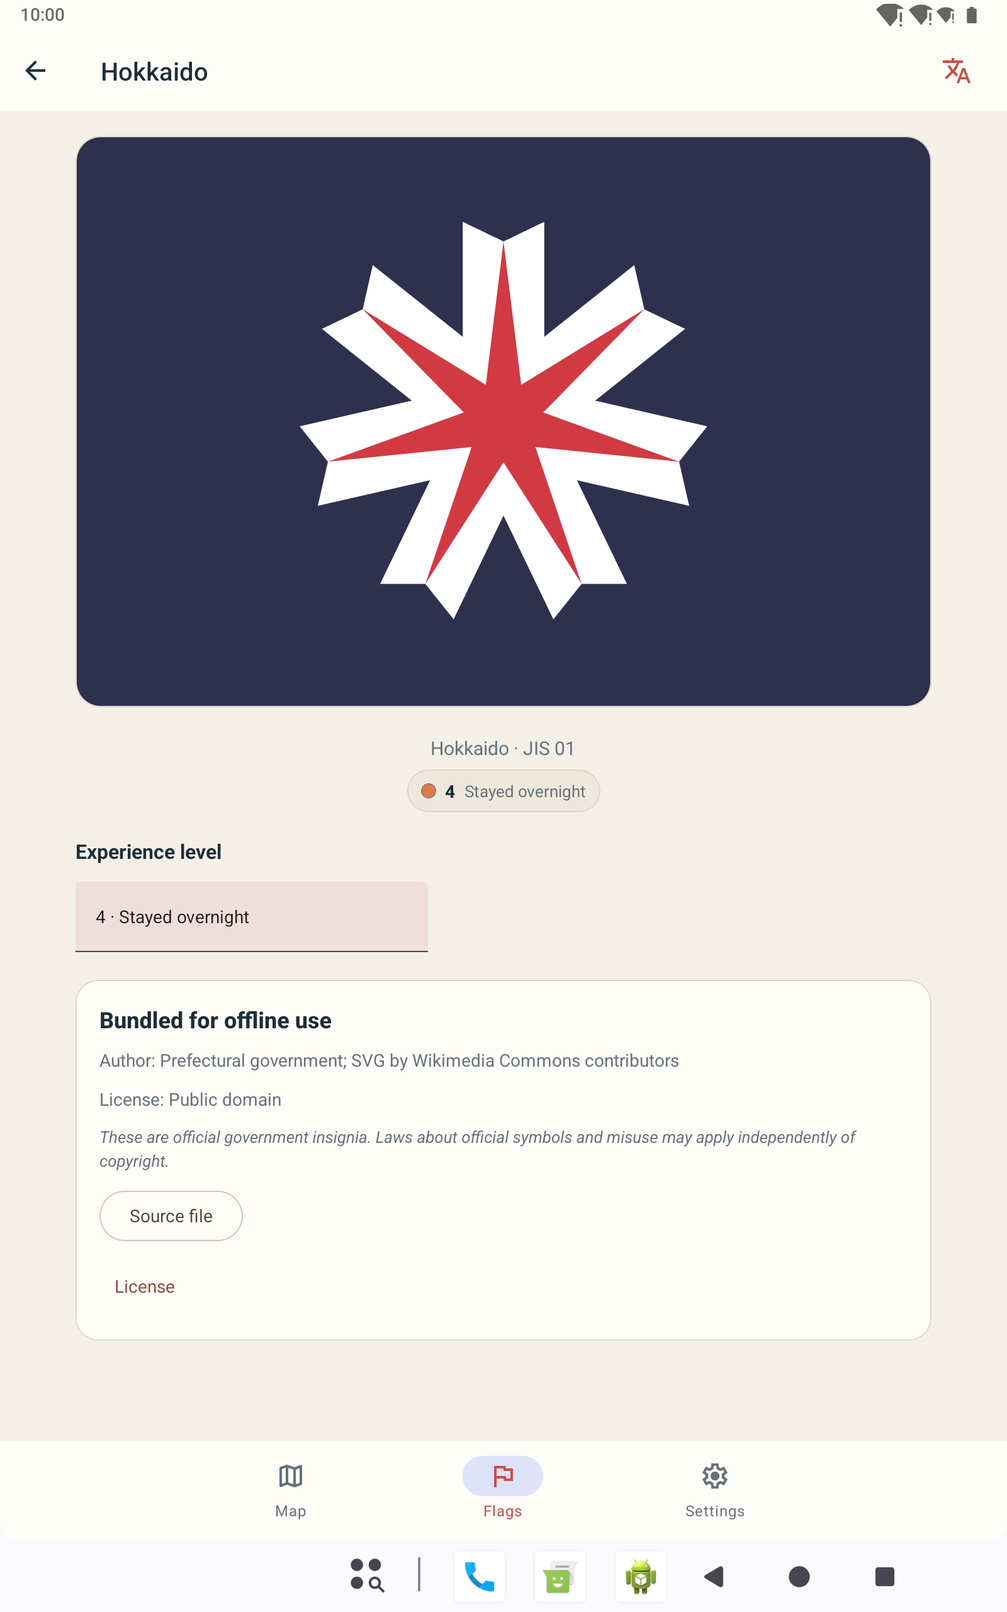
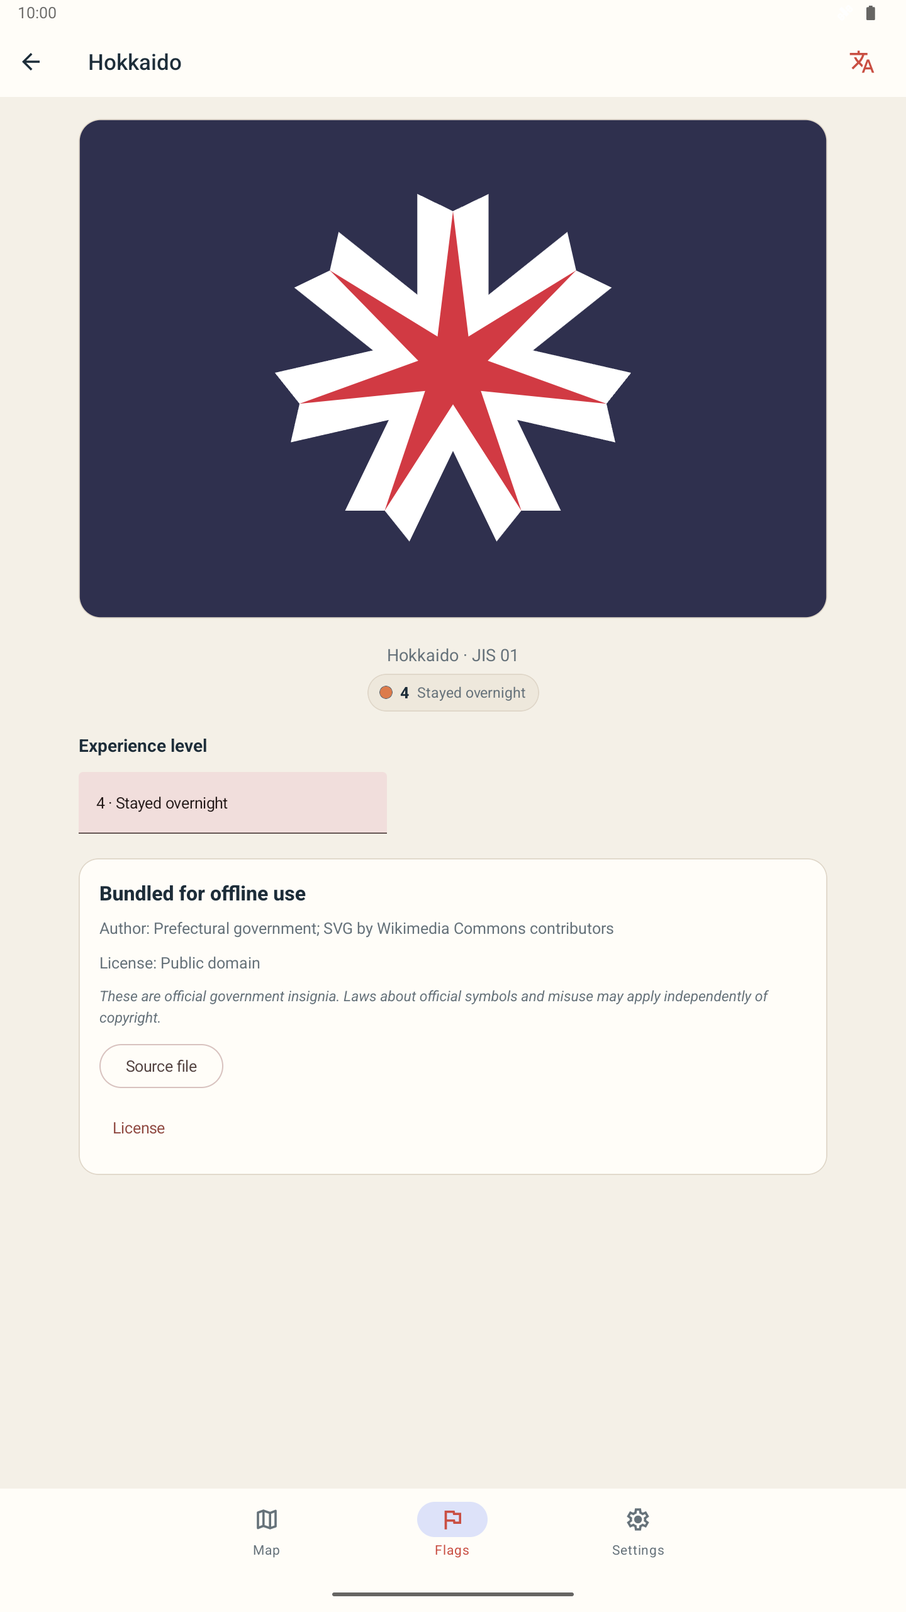
Refresh Play screenshots from current Release UI

diff --git a/store/release-readiness.md b/store/release-readiness.md
@@ -8,7 +8,7 @@ Last checked: 2026-09-26. This records current artifact evidence and earlier val
 - `bun run export:web`: static web export passed.
 - The earlier EAS-tested app commit `a67820a` uses Expo `58.0.0-preview.7` and React Native `0.88.0-rc.1`, with the custom percentage-layout patch rebased onto `@expo/ui@58.0.7`. On that commit, `bun run verify` and `bun run export:web` passed, and Expo Doctor passed 20/20 checks. Later Settings changes have also passed local Release checks. SDK 58 remains a preview release, so final store testing must use new signed builds from the reviewed source.
 - After updating CocoaPods, an unsigned iOS Release simulator build succeeded with the rebased patch. The app installed and launched on the isolated iPhone QA simulator; its Map screen rendered with the saved score, prefecture map, zoom controls, and tabs in the expected positions.
-- The Play icon is a 512 × 512 RGBA PNG under 1 MB. The three localized feature graphics are opaque RGB PNGs at 1024 × 500. Draft phone screenshots are opaque 1080 × 1920 PNGs, and the existing tablet sets contain four opaque PNGs each. The tablet drafts use 5:8 while Google's current large-screen guidance calls for 9:16 portrait captures; all eight tablet images need recapture from the final build.
+- The Play icon is a 512 × 512 RGBA PNG under 1 MB. The three localized feature graphics are opaque RGB PNGs at 1024 × 500. The twelve current local Release screenshot drafts are opaque 9:16 PNGs: four phone and four 7-inch tablet images at 1080 × 1920, plus four 10-inch tablet images at 1440 × 2560. Compare them with the final signed Play build before upload.
 - Japanese and Traditional Chinese store descriptions now describe the actual system share-sheet flow without promising a save action that every device may not offer. The obsolete duplicate Play privacy-policy draft was removed; `public/privacy/index.html` is the published policy source.
 - Expo config introspection was repeated on 2026-09-26 after the SDK patch update. It still generates the Android HTTPS `/view` intent filter with `autoVerify`, removal directives for overlay and media/storage permissions, and the iOS Associated Domains entitlement for `japanex.expo.app`. The rebuilt iOS Release simulator app's Info.plist omits the development launcher's Bonjour and local-network usage keys. These checks do not replace inspection of the final signed artifacts, where native dependency manifests and signing are resolved.
 - The support and privacy pages are present in the web export and match their source files byte for byte. On 2026-09-26, both live URLs returned HTTP 200 and showed Kudo Chien and `support@dozastudio.dev`. Both live `.well-known` association files also returned HTTP 200 and matched their repository sources byte for byte; `/view` returned HTTP 200. Inbox delivery remains unverified.
@@ -26,7 +26,7 @@ Last checked: 2026-09-26. This records current artifact evidence and earlier val
 - Settings now includes a localized Help & support button linking to the public support page. The rebuilt iPhone Release screen showed the action below Privacy policy without clipping. After deployment, a Maestro tap on the isolated iPhone Release simulator opened the page and found its `JapanEx Support` heading.
 - The rebuilt iPhone Release app's Map, Flags, and Settings screens were captured in dark appearance. Their core text, controls, map, flags, and cards remained readable without visible clipping; the isolated simulator was restored to light appearance afterward.
 - The latest Release simulator app was installed on the isolated 13-inch iPad and its Map, Flags, and Settings screens were captured. Flags uses a readable two-column gallery and Settings keeps the new support action visible in its centered content area. The Map's lower Share action requires scrolling at the initial position; no clipped or overlapping controls were observed in these captures.
-- Draft App Store screenshot sets now show the current iPhone 17 Pro Max and 13-inch iPad Release simulator UI with five representative prefecture levels totaling score 14. Each set includes Map, Hokkaido detail, Flags, and Settings. All eight unedited PNGs have the expected native dimensions and no alpha channel. They are held under `store/app-store/screenshots/draft-simulator/` for publisher review; the upload sets still require capture from the final signed build.
+- Draft App Store screenshot sets now show the current iPhone 17 Pro Max and 13-inch iPad Release simulator UI with five representative prefecture levels totaling score 14. Each set includes Map, Hokkaido detail, Flags, and Settings. All eight PNGs have the expected native dimensions and no alpha channel. They are held under `store/app-store/screenshots/draft-simulator/` for publisher review and must be compared with the final signed UI before upload.
 - The current iOS EAS preview IPA contains 13 embedded privacy manifests; each declares no collected data and tracking `false`. The [App Store privacy review draft](app-store/privacy-review.md) records candidate questionnaire answers and the production-archive and outbound-traffic checks still needed before publication.
 - A valid read-only shared view now offers an explicit import action beside its notice. In a local web smoke test, Cancel returned to the view and left the local score at 0; confirming the same snapshot changed the score to 4, which survived reload. The action remained visible at a 390-pixel phone width. On the iPhone Release simulator, the same score-4 view left all 47 saved levels at zero; its import preview appeared, Cancel returned to the read-only view, and explicit confirmation returned to Map with score 4. The SQLite tracker state then contained 47 levels summing to 4.
 - On the deployed `japanex.expo.app` web app, a direct score-4 `/view` link rendered its name, read-only notice, score, map, and Import this progress action. The import preview showed score 4 and its replacement warning; Cancel returned to the shared view, and View my map showed the unchanged saved score of 0. An unsupported-version `/view` link displayed the invalid-link state. This verifies the live web flow through cancellation; signed native HTTPS handoff remains unverified.
@@ -49,6 +49,7 @@ Last checked: 2026-09-26. This records current artifact evidence and earlier val
 - The local Android Release APK containing the Settings fix launched on a Pixel 9 Pro emulator and opened Android's share sheet for a flag-hidden result image. Its preview showed the score, legend, and complete map. The generated PNG remains in the app's private cache, so this check did not independently measure its pixel dimensions; exact-size verification remains part of the signed-build smoke test.
 - An iPadOS 18.5 Release simulator check found the Flags screen constrained to roughly half the tablet viewport: its second gallery column and filter controls were clipped. The Flags root now fills the native `FlatList` width. An unsigned iOS Release rebuild succeeded, and its Flags, Map, prefecture detail, and Settings screens were visually checked on a 13-inch iPad Pro. Flags also retained its full-width two-column layout on iPadOS 26.5 and its single-column layout on an iPhone 17 Pro Max running iOS 26.5. `bun run verify` and `bun run export:web` passed after the fix.
 - The Android SDK was found at the path recorded by the Pixel 9 Pro AVD, and `:app:assembleRelease --offline` succeeded after the Flags fix. The rebuilt local APK installed and launched on a read-only Pixel 9 Pro emulator. Flags displayed one column at its native 1280 × 2856, 480 dpi screen and two complete columns at a temporary 1440 × 2560, 240 dpi viewport. At the larger viewport, selecting Hokkaido reduced the gallery count from 47 to 1, and combining it with experience level 5 showed the expected zero-result message. This viewport override is a layout check on a phone AVD, not a native tablet screenshot or a Play-signed install.
+- Isolated Nexus 7 and Nexus 10 Android 36 emulator profiles at native 1080 × 1920, 288 dpi and 1440 × 2560, 280 dpi rendered Map, Hokkaido detail, Flags, and Settings from the current local Release APK without clipped controls. A third isolated phone profile captured the same screens at 1080 × 1920. The app's confirmed import flow supplied the same five representative prefecture levels and score 14 to all three devices. The resulting twelve English Play screenshot drafts use 9:16 portrait pixels, a normalized 10:00 status bar, no personal display name, and opaque RGB PNGs; removing the emulator's fully opaque alpha channel left visible pixels unchanged. These are local build captures that still need comparison with the final Play-signed app.
 - The App Store draft set now includes current Settings copy on iPhone and four iPadOS 18 simulator captures after the Flags layout fix. The eight images are at Apple's accepted portrait pixel sizes and have no alpha channel. The iPad simulator supplied fully opaque RGBA captures, whose unused alpha channel was removed with RGB pixels unchanged. Apple's [Xcode capture guidance](https://developer.apple.com/documentation/xcode/capturing-screenshots-and-videos-from-devices) permits simulator screenshots; compare these drafts with the final signed app and recapture any mismatch before upload.
 - EAS build history was checked again after the Flags fix: no signed artifact from the reviewed source had appeared. The newest Android production and iOS preview builds still came from `a67820a`. The public `/settings` page still served `entry-53df3860102f0dd020ca19c75699ce23.js`, while the verified local export produced `entry-b28d122bf8e37383c47904a9ee32352b.js`; the current web changes have not been deployed.
 - The iOS preview IPA contains an embedded `main.jsbundle`, version `1.0.0` build 2, bundle ID `dev.expo.kudo.japanex`, and the `applinks:japanex.expo.app` entitlement. Its Info.plist has no development Bonjour or local-network usage keys, and the archive listing has no ExpoDevLauncher or ExpoDevMenu artifacts. These checks do not replace TestFlight launch and inspection of the production archive.
@@ -61,7 +62,7 @@ Last checked: 2026-09-26. This records current artifact evidence and earlier val
 - Verify offline launch on native devices or simulators and screen-reader navigation at large text sizes on physical devices. [Apple's accessibility test guidance](https://developer.apple.com/documentation/accessibility/performing-accessibility-testing-for-your-app) says VoiceOver is unavailable in Simulator. In Maestro, tapping a map SVG element by its accessibility label found the element but did not open the sheet; a physical tap on the visible shape did. The bundled `react-native-svg` iOS group hit test checks path bounds and delegates to child paths, so a coordinate tap at the accessibility element's center may miss an irregular region. A physical-device VoiceOver activation check is still needed; the Maestro result alone does not establish a screen-reader defect. Repeat view-only and confirmed-import links on the signed Android build and verify signed HTTPS links on both platforms.
 - Repeat PNG export with flags on and off from a Play internal-track install, including exact dimensions, artwork bounds, and share-sheet cancellation. Recheck the fixed Settings field at 2× text on the new signed build.
 - Complete an internal Google Play test and review its pre-launch report. The inspected build-8 AAB requested no unused overlay, photo, video, or storage permission; verify the replacement AAB retains that permission set.
-- Recapture `03-flags.png` and `04-settings.png` for the phone, plus all four screenshots in each tablet Play set, from the final release build. The existing images are drafts; the tablet sets also need native 9:16 captures.
+- Compare the twelve current Play screenshot drafts with the final signed build and recapture any screen whose delivered UI differs. Verify the 9:16 tablet sets and phone set in Play Console before upload.
 - Verify delivery to `support@dozastudio.dev`, complete Play Console declarations, and verify app-link opening with the Play App Signing certificate. The updated public support/privacy pages and association files are live.
 - Deploy the new web export so its Settings display-name copy matches the revised native app. Recheck the public web Settings page after deployment.
 - Review the `store/app-store/` listing draft and compare its simulator screenshots with the production build; recapture any screen whose signed UI differs.
@@ -69,7 +70,7 @@ Last checked: 2026-09-26. This records current artifact evidence and earlier val
 
 ## UI and functionality assessment
 
-- The main flows and navigation are present: map editing, Flags search and filters, prefecture details, language selection, read-only links, confirmed imports, and result-image sharing. The recent Flags count and Settings score changes need final screenshots.
+- The main flows and navigation are present: map editing, Flags search and filters, prefecture details, language selection, read-only links, confirmed imports, and result-image sharing. Draft App Store and Play screenshots now show the current Flags count and Settings copy; signed-build comparison remains.
 - The visual review includes Android development and locally built Release APKs, a web smoke test, the iPhone 17 development build, and iPhone 17 Pro Max and 13-inch iPad Release simulator builds. On iPhone Release, Flags, Settings, a prefecture sheet, a detail screen, all three language choices, large text, and result images with flags hidden and shown were inspected. On Android, Map, Flags, Settings, prefecture editing, 1.8× and 2× text, and both image-export variants were inspected; the offline Release import sheet was checked at 2× text size.
 - Signed HTTPS link handoff remains unverified. The derived Android APK confirms packaged runtime behavior but does not establish Play-signed app-link verification; iOS still needs a production archive and TestFlight run.
 

diff --git a/store/google-play/submission-details.md b/store/google-play/submission-details.md
@@ -70,22 +70,22 @@ JapanEx does not browse, import, or save to the user's photo library. The Expo c
 | --- | --- | --- |
 | Play Store icon | 512 × 512 px, 32-bit PNG | Ready at `assets/app-icon.png` |
 | Feature graphic | 1024 × 500 px, JPEG or 24-bit PNG without alpha | Ready in English, Japanese, and Traditional Chinese under `assets/` |
-| Phone screenshots | At least 2; use at least 4 portrait 1080 × 1920 px screenshots for recommendation eligibility | Drafts under `screenshots/phone/en-US/`; recapture Flags and Settings |
-| 7-inch tablet screenshots | 9:16 portrait PNG captures of the tablet layout | Current 5:8 drafts under `screenshots/7-inch-tablet/en-US/`; recapture all four |
-| 10-inch tablet screenshots | 9:16 portrait PNG captures of the tablet layout | Current 5:8 drafts under `screenshots/10-inch-tablet/en-US/`; recapture all four |
+| Phone screenshots | At least 2; use at least 4 portrait 1080 × 1920 px screenshots for recommendation eligibility | Four current local Release drafts under `screenshots/phone/en-US/` |
+| 7-inch tablet screenshots | 9:16 portrait PNG captures of the tablet layout | Four 1080 × 1920 local Release drafts under `screenshots/7-inch-tablet/en-US/` |
+| 10-inch tablet screenshots | 9:16 portrait PNG captures of the tablet layout | Four 1440 × 2560 local Release drafts under `screenshots/10-inch-tablet/en-US/` |
 
-Google Play accepts up to eight screenshots per supported device type. The phone, 7-inch tablet, and 10-inch tablet drafts were captured from an earlier release APK in English with representative on-device progress. The Flags and Settings screens have changed since those captures.
+Google Play accepts up to eight screenshots per supported device type. These three English sets were captured from the current local Release APK with the same representative on-device progress. Check them against the final signed build before upload.
 
 ### Recommended phone screenshot sequence
 
 1. Interactive map with several experience levels selected
    - Alt text: `A color-coded map of Japan showing experience levels for all 47 prefectures.`
-2. Prefecture experience-level picker
-   - Alt text: `A prefecture detail sheet with six travel experience levels.`
+2. Hokkaido detail and selected experience level
+   - Alt text: `The Hokkaido prefectural flag and its selected travel experience level.`
 3. Searchable prefecture flag gallery
    - Alt text: `A searchable gallery displaying Japanese prefecture flags and experience levels.`
 4. Settings and language selection
-   - Alt text: `JapanEx settings with display name, language, sharing, and reset controls.`
+   - Alt text: `JapanEx settings with display name, language, and view-link sharing controls.`
 
 Use actual in-app screens without device frames. Keep any added tagline under 20% of the image, localize overlays for each listing language, and do not add rankings, awards, price promotions, or calls to install.
 
@@ -104,7 +104,7 @@ Use `assets/feature-graphic-base.png` as the text-free master if another localiz
 - Verify that `support@dozastudio.dev` receives support and privacy requests; recheck that the deployed support/privacy pages still show Kudo Chien and this address.
 - Confirm that the published privacy policy URL still loads publicly without authentication or an editable document UI.
 - Inspect the replacement production AAB's merged manifest and confirm that no photo, video, or storage permission is present.
-- Recapture the phone Flags and Settings screenshots and all eight tablet screenshots from the final release build. Use native 9:16 tablet captures rather than resizing the 5:8 drafts.
+- Compare the twelve local Release screenshot drafts with the final Play-signed build; recapture any screen whose delivered UI differs. Verify all three sets in Play Console before upload.
 - Upload localized listing text, release notes, screenshots, app icon, and the matching localized feature graphic.
 - Complete Data safety, Ads, App access, Target audience, Content rating, and all other dashboard declarations.
 - Run the production build through internal testing and review its pre-launch report.

diff --git a/store/google-play/screenshots/README.md b/store/google-play/screenshots/README.md
@@ -1,18 +1,18 @@
 # Google Play screenshots
 
-These screenshots were captured from the Android release APK in English with representative local progress. They are unframed, portrait PNGs with a normalized 10:00 status bar.
+These screenshots were captured from the current local Android Release APK in English with five representative prefecture levels totaling a score of 14. The display name was left empty. They are unframed, opaque portrait PNGs with a normalized 10:00 status bar.
 
-`03-flags.png` in each set shows the previous collection heading and count, and `04-settings.png` shows the previous score layout and privacy wording. Recapture those two phone images and all eight tablet images from the final release build before store upload, then check that every screenshot matches the submitted app.
+The phone, 7-inch tablet, and 10-inch tablet sets each show Map, Hokkaido detail, Flags, and Settings from the same local build. The phone Settings capture is scrolled to show display-name, language, and view-link controls. Compare all twelve images with the final signed Play build before upload, and recapture any UI that differs.
 
-The current tablet captures use a 5:8 portrait ratio. Google's [preview-asset guidance](https://support.google.com/googleplay/android-developer/answer/9866151) says to use 9:16 portrait screenshots for large screens. Capture the final tablet sets directly from 9:16 tablet device profiles, such as 1080 × 1920 for 7-inch and 1440 × 2560 for 10-inch if those profiles show the actual tablet UI. Do not stretch or crop the existing images to force that ratio. Check the final files in Play Console before upload.
+Google's [preview-asset guidance](https://support.google.com/googleplay/android-developer/answer/9866151) calls for 9:16 portrait screenshots on large screens. The new tablet captures came directly from isolated Nexus 7 and Nexus 10 emulator profiles configured at 1080 × 1920, 288 dpi and 1440 × 2560, 280 dpi, respectively; no image was stretched or cropped. The emulator's fully opaque alpha channel was removed without changing RGB pixels. Check the final files in Play Console before upload.
 
 ## Upload sets
 
-| Play Console slot | Directory | Current draft dimensions | Final capture target | Files |
-| --- | --- | --- | --- | --- |
-| Phone screenshots | `phone/en-US/` | 1080 × 1920 | 1080 × 1920 | 4 |
-| 7-inch tablet screenshots | `7-inch-tablet/en-US/` | 1200 × 1920 | 9:16 native capture | 4 |
-| 10-inch tablet screenshots | `10-inch-tablet/en-US/` | 1600 × 2560 | 9:16 native capture | 4 |
+| Play Console slot | Directory | Draft dimensions | Files |
+| --- | --- | --- | --- |
+| Phone screenshots | `phone/en-US/` | 1080 × 1920 | 4 |
+| 7-inch tablet screenshots | `7-inch-tablet/en-US/` | 1080 × 1920 | 4 |
+| 10-inch tablet screenshots | `10-inch-tablet/en-US/` | 1440 × 2560 | 4 |
 
 ## Sequence and alt text
 
@@ -23,6 +23,6 @@ The current tablet captures use a 5:8 portrait ratio. Google's [preview-asset gu
 3. `03-flags.png`
    - The prefecture flag gallery with region and experience-level filters.
 4. `04-settings.png`
-   - JapanEx settings showing the display name, English language selection, sharing, privacy, and reset controls.
+   - JapanEx settings showing the display name, English language selection, and view-link sharing controls.
 
 Upload the four files in filename order for each device type. The app data is intentionally identical across all three sets so the score and prefecture states remain consistent.

diff --git a/store/build-handoff.md b/store/build-handoff.md
@@ -19,6 +19,6 @@ Do not use `--auto-submit` for this verification round. Save each new production
 2. Confirm the Android App Bundle has package `dev.expo.kudo.japanex`, the expected version code, the verified HTTPS `/view` filter, and no unused overlay, photo, video, or storage permission in its merged manifest.
 3. Install the signed builds through TestFlight and Play internal testing. Run the [native smoke test](release-readiness.md#native-smoke-test), including offline launch, read-only and confirmed-import links, accessibility, and 2048 × 2048 PNG export with flags hidden and shown. Try a long display name and check that its image label stays clear of the score.
 4. Check HTTPS link handoff with the final signing certificates. A custom-scheme link or config introspection alone does not prove universal/app-link verification.
-5. Compare the App Store simulator screenshot drafts with the signed iOS UI and recapture any mismatch. Recapture the outstanding Play phone and tablet images from the release build. Review the Play pre-launch report before wider rollout.
+5. Compare the App Store and Play screenshot drafts with the delivered signed UI and recapture any mismatch. Verify the Play phone and both 9:16 tablet sets in Play Console. Review the Play pre-launch report before wider rollout.
 
 Keep the iOS and Android build IDs with the completed results in [release-readiness.md](release-readiness.md). The live support and privacy pages show Kudo Chien and `support@dozastudio.dev`; verify inbox delivery before store submission.

diff --git a/store/google-play/README.md b/store/google-play/README.md
@@ -29,12 +29,12 @@ Each is an opaque 1024 × 500 PNG. `feature-graphic-base.png` is the text-free m
 English screenshot drafts are in `screenshots/`:
 
 - `phone/en-US/` — four 1080 × 1920 PNGs
-- `7-inch-tablet/en-US/` — four 1200 × 1920 PNGs
-- `10-inch-tablet/en-US/` — four 1600 × 2560 PNGs
+- `7-inch-tablet/en-US/` — four 1080 × 1920 PNGs
+- `10-inch-tablet/en-US/` — four 1440 × 2560 PNGs
 
 Each set uses the same sequence: map, Hokkaido detail, flag gallery, and settings. See `screenshots/README.md` for captions and capture details.
 
-The Flags and Settings screens changed after these captures. Recapture those two phone images and every tablet image from the final release build. The current tablet drafts are 5:8; Google's large-screen guidance calls for 9:16 portrait captures.
+All three sets now show the current local Android Release UI with the same representative score-14 progress. The tablet drafts are native 9:16 captures from isolated 7-inch and 10-inch emulator profiles. Compare every image with the final signed Play build and recapture any screen whose delivered UI differs.
 
 ## How to use this pack
 
